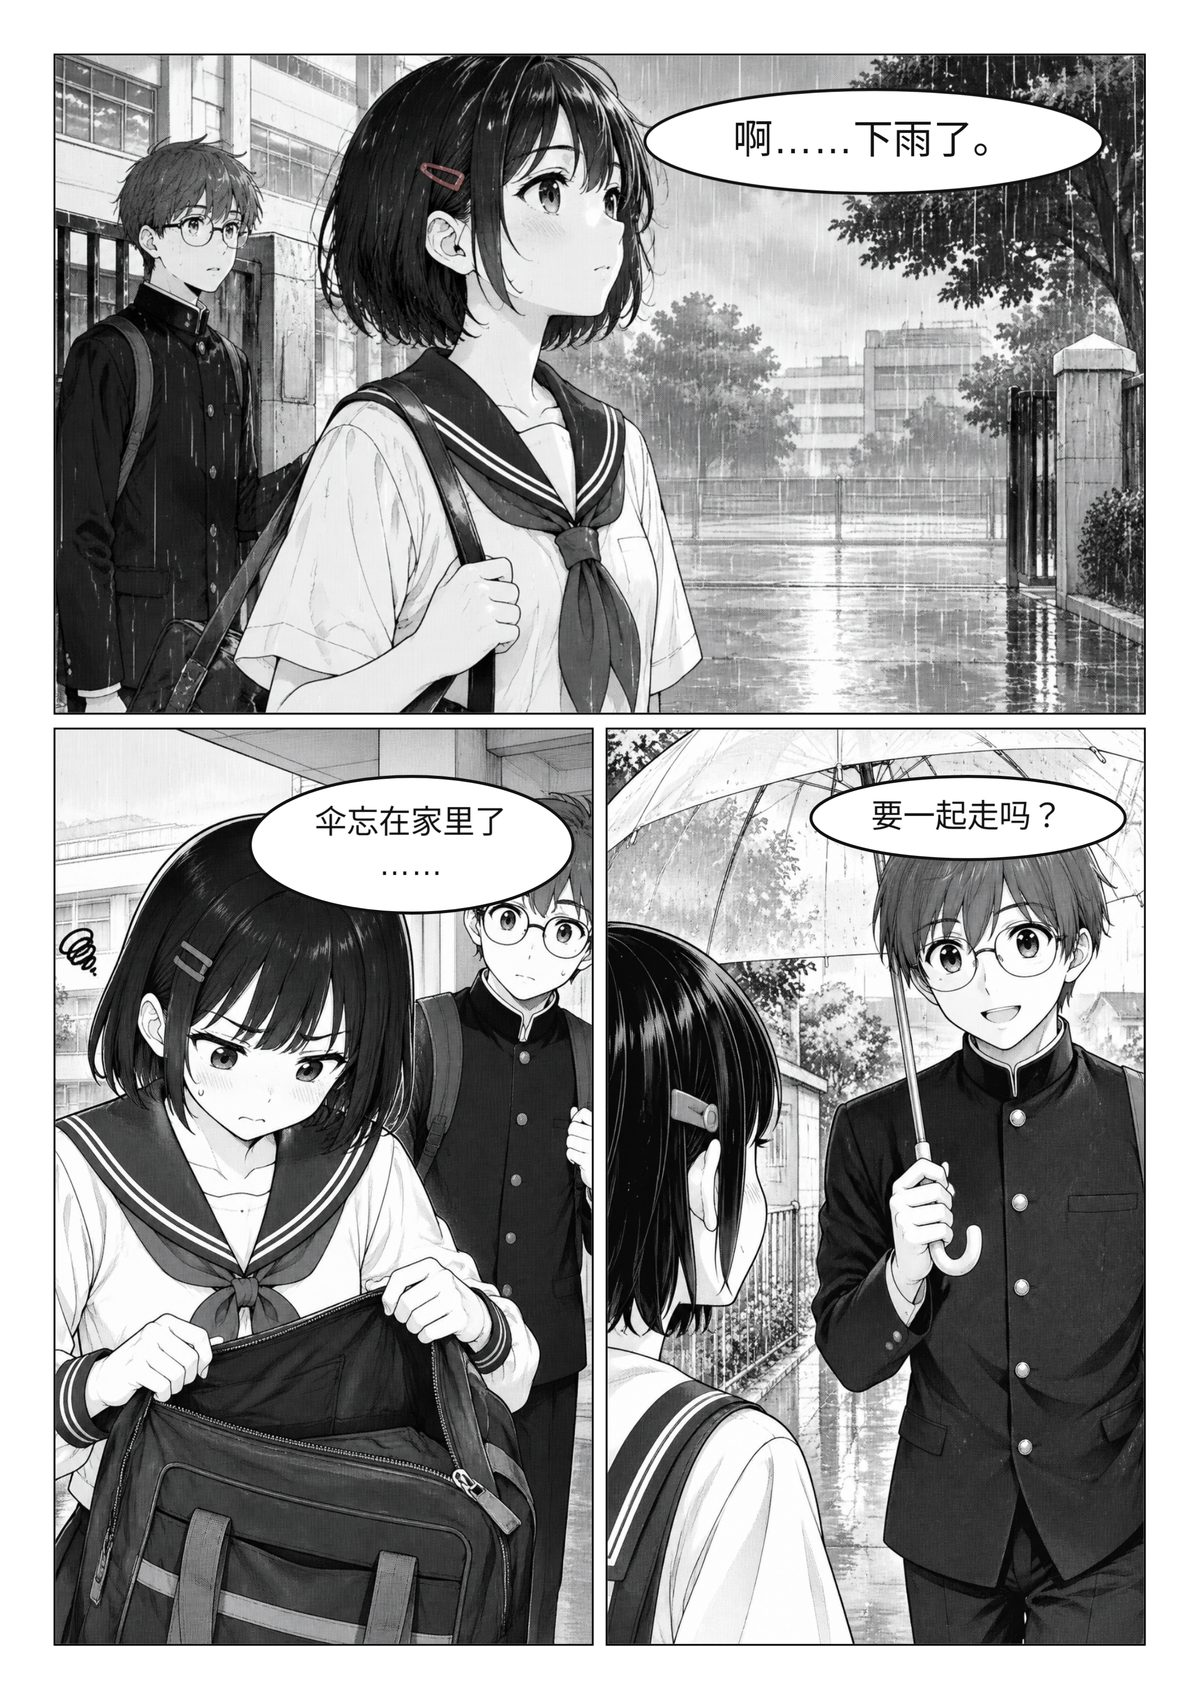
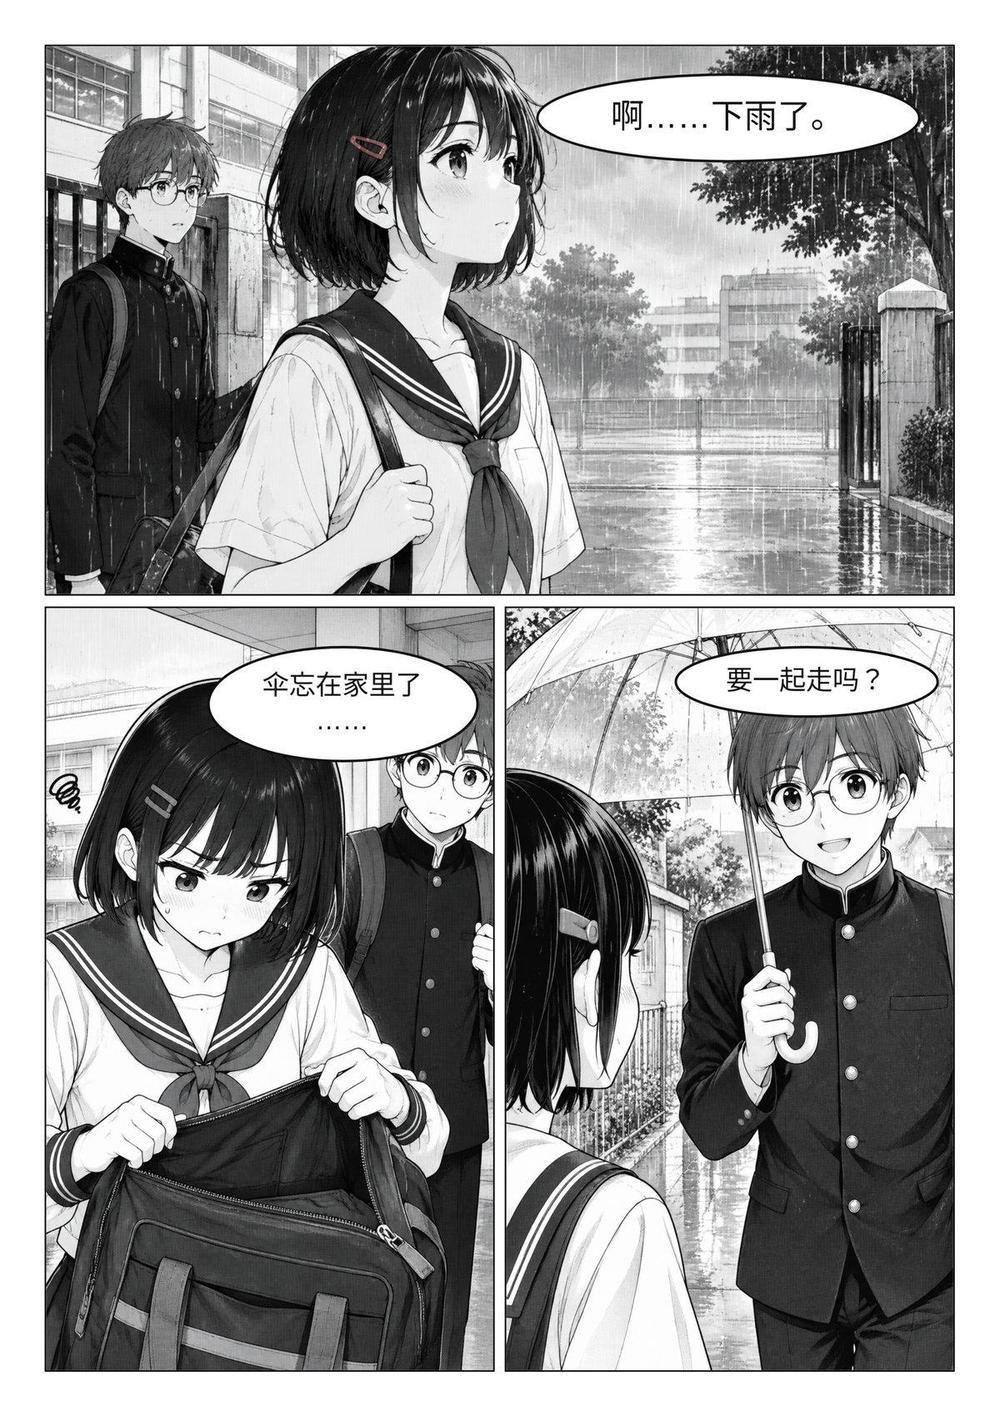
docs: refresh README screenshots and feature table for 1.5

diff --git a/README_EN.md b/README_EN.md
@@ -19,8 +19,7 @@ Manga-NAI-GPT is built on [Manga Editor Desu](https://github.com/new-sankaku/man
 
 ## Features
 
-**New in 1.5:** Edit an area (remove / replace / free edit), character library, non-destructive AI layers, automatic balloons, paste-a-script → page, Ctrl+K command palette + thumbnail history, PSD I/O, `MNAI_PORT`. See [CHANGELOG](CHANGELOG.md).
-
+Current version **1.5**: six tasks on the home screen, plus a character library, automatic speech balloons, a Ctrl+K command palette, a history panel with thumbnails, and PSD import/export. See [CHANGELOG](CHANGELOG.md).
 
 | Task | What it does | Needs |
 |---|---|---|
@@ -28,15 +27,30 @@ Manga-NAI-GPT is built on [Manga Editor Desu](https://github.com/new-sankaku/man
 | **改字幕 Captions** | Text is detected on import → edit the lines → old text erased, new text typeset to the bubble (CJK line-breaking, keep SFX option) | Local (free) |
 | **改一块 Edit an area** | Paint an area → "remove" (local, free) / "replace with…" / "free edit" (3 candidates) → becomes an editable, revertible layer; seams and tone are matched | Local LaMa or image service |
 | **分层 Layers** | Smart click-select (3 candidates) or split by panels in one click | Local (free) |
-| **画一页 Draw a page** | Choose panel count or reuse this page's grid → one line of scene + dialogue per panel → generate | Image service |
+| **画一页 Draw a page** | Paste a script (split into panels and dialogue automatically) or fill each panel → generate; balloons avoid faces and follow right-to-left reading order | Image service |
 | **AI 生图 Generate** | NovelAI text-to-image / image-to-image | NovelAI token |
 | **专业模式 Pro mode** | All original tools: panels, bubbles, screentones, brushes, multi-page, simulator, export | — |
+
+| Always available | What it does |
+|---|---|
+| **Character library** (⋯ menu) | Store references per character; recognises who is on the page; edits attach that character's reference |
+| **Ctrl+K** | Type a few characters to find and run any command |
+| **History panel** | Every step has a name, time and thumbnail; click to jump back |
+| **PSD import / export** | File menu; text stays editable, AI layers keep their masks |
 
 | Character swap (before / after) | Finished page |
 |---|---|
 | ![swap](docs/images/swap-before-after.jpg) | ![page](docs/images/comic-page.jpg) |
 | **Captions**: OCR cached per page | **Layers**: split by panels |
 | ![captions](docs/images/caption.jpg) | ![layers](docs/images/panel-split.jpg) |
+| **Edit an area**: paint → replace with… → 3 candidates | **Script → page**: panels and balloons from a script |
+| ![edit an area](docs/images/gaiyikuai.jpg) | ![script to page](docs/images/script-page.jpg) |
+| **Character library**: recognises who is on the page | **History**: named steps with thumbnails |
+| ![character library](docs/images/character-library.jpg) | ![history](docs/images/history.jpg) |
+
+**Automatic balloons** (left: old fixed top-right; right: avoid faces, reading order)
+
+![balloons](docs/images/balloons.jpg)
 
 ## Install (3 steps)
 
@@ -78,7 +92,9 @@ The browser opens `http://127.0.0.1:8000/index.html`. The launcher window is the
 - **Character swap is unstable in complex multi-person panels** — it may touch the other person or distort proportions; always check the before/after compare.
 - **Panel detection needs white gutters** — borderless, full-bleed or black-gutter pages need manual boxes.
 - **Local AI is CPU-only** — first character detection takes 20–60 s; slow on machines with < 8 GB RAM.
-- **Windows is not yet verified on a real machine** (static review + `windows-latest` CI only); see [docs/dev/WINDOWS_READINESS.md](docs/dev/WINDOWS_READINESS.md).
+- **Windows is not yet verified on a real machine.** Every commit runs `一键启动.bat` for real on `windows-latest` CI (from a path with spaces and Chinese characters, checking the page and the local API), but nobody has walked through it on a physical PC yet. See [docs/dev/WINDOWS_READINESS.md](docs/dev/WINDOWS_READINESS.md).
+- Real-GPT quality of "replace with… / free edit" and the character library's automatic reference has not been re-verified on 1.5.
+- Colour pages export to PSD at about 16–18 MB (lossless); black-and-white pages about 6 MB.
 - OCR targets Japanese manga; handwriting and stylised lettering are weaker.
 
 ## FAQ

diff --git a/README.md b/README.md
@@ -19,8 +19,7 @@ Manga-NAI-GPT 是基于 [Manga Editor Desu](https://github.com/new-sankaku/manga
 
 ## 功能
 
-**1.5 新增：** 改一块（去掉 / 换成 / 自由修改）、角色库、非破坏 AI 图层、自动对白气泡、粘贴剧本生成整页、Ctrl+K 命令面板与带缩略图的历史、PSD 导入导出、`MNAI_PORT` 换端口。详见 [CHANGELOG](CHANGELOG.md)。
-
+当前版本 **1.5**：首页 6 个任务，外加角色库、自动对白气泡、Ctrl+K 命令面板和带缩略图的历史、PSD 导入导出。详见 [CHANGELOG](CHANGELOG.md)。
 
 | 任务 | 做什么 | 需要 |
 |---|---|---|
@@ -28,15 +27,30 @@ Manga-NAI-GPT 是基于 [Manga Editor Desu](https://github.com/new-sankaku/manga
 | **改字幕** | 导入时自动识别本页文字 → 直接改台词 → 原字擦掉、新字按气泡排版（中文避头尾，可保留拟声词） | 本机（免费） |
 | **改一块** | 涂出一块 → 「去掉杂物」（本机，免费）/「换成…」/「自由修改」（3 张候选）→ 变成可再改、可还原的图层；接缝和色调自动对齐 | 本机 LaMa 或图像服务 |
 | **分层** | 智能点选人物（3 个候选）或按格子一键拆成图层 | 本机（免费） |
-| **画一页漫画** | 选格子数或照本页格子 → 每格写画面和对白 → 一键生成整页 | 图像服务 |
+| **画一页漫画** | 粘贴剧本自动拆成格子和对白（或逐格写）→ 一键生成整页；对白气泡自动避脸、按从右到左的阅读顺序摆放 | 图像服务 |
 | **AI 生图** | NovelAI 文生图 / 图生图 | NovelAI Token |
 | **专业模式** | 原版全部工具：分镜、气泡、网点、笔刷、多页、模拟器、导出 | — |
+
+| 随时可用 | 做什么 |
+|---|---|
+| **角色库**（⋯ 菜单） | 给角色存参考图，本页自动认出是谁；改图时自动带上该角色的参考 |
+| **Ctrl+K 找功能** | 输入几个字就能找到并执行任何功能 |
+| **历史面板** | 每一步都有中文名、时间和缩略图，点一下回到那一步 |
+| **PSD 导入 / 导出** | 文件菜单；文字是可编辑文字层，AI 图层带蒙版 |
 
 | 换角色（左原图 / 右结果） | 一页完成稿 |
 |---|---|
 | ![换角色前后](docs/images/swap-before-after.jpg) | ![完成稿](docs/images/comic-page.jpg) |
 | **改字幕**：每页识别结果自动缓存 | **分层**：按格子拆成图层 |
 | ![改字幕](docs/images/caption.jpg) | ![按格子拆成图层](docs/images/panel-split.jpg) |
+| **改一块**：涂一块 → 换成… → 3 张候选 | **剧本成页**：粘贴剧本 → 格子、对白气泡 |
+| ![改一块](docs/images/gaiyikuai.jpg) | ![剧本成页](docs/images/script-page.jpg) |
+| **角色库**：本页自动认人 | **历史面板**：每步有名字和缩略图 |
+| ![角色库](docs/images/character-library.jpg) | ![历史面板](docs/images/history.jpg) |
+
+**自动对白气泡**（左：旧的固定右上角；右：避脸、按阅读顺序）
+
+![自动对白气泡](docs/images/balloons.jpg)
 
 ## 安装（3 步）
 
@@ -80,7 +94,9 @@ Manga-NAI-GPT 是基于 [Manga Editor Desu](https://github.com/new-sankaku/manga
 - **换角色在复杂多人画格里不稳定**：偶尔会改到同格另一个人或比例不自然，请先看「对比原图」再应用。
 - **自动找格子需要白色格间留白**：无边框、满版出血、黑底分格要手动框选。
 - **本机 AI 只用 CPU**：首次人物识别 20–60 秒，内存 < 8 GB 的电脑会偏慢。
-- **Windows 尚未在真实电脑上完整验证**（只经过代码审查和 CI 的 `windows-latest` 离线测试），见 [docs/dev/WINDOWS_READINESS.md](docs/dev/WINDOWS_READINESS.md)。
+- **Windows 尚未在真实电脑上完整验证**：每次提交 CI 都会在 `windows-latest` 上真正运行「一键启动.bat」（从带空格和中文的路径启动，检查页面和本机接口），但还没在真人电脑上逐项试过。见 [docs/dev/WINDOWS_READINESS.md](docs/dev/WINDOWS_READINESS.md)。
+- 「改一块」的「换成… / 自由修改」和角色库自动带参考，用真实 GPT 的效果还没有在 1.5 上重新验证。
+- 彩色页导出 PSD 约 16–18 MB（无损）；黑白页约 6 MB。
 - 文字识别以日文漫画为主；手写体、艺术字识别率较低。
 
 ## 常见问题

diff --git a/docs/dev/WINDOWS_READINESS.md b/docs/dev/WINDOWS_READINESS.md
@@ -1,5 +1,7 @@
 # Windows 就绪情况（静态审查，**尚未在真实 Windows 上验证**）
 
+> 1.5 更新：CI 的 `windows-start` 任务现在会在 `windows-latest` 上真正运行 `一键启动.bat`（路径含空格和中文、`-Ci` 非交互模式），等 `MNAI_READY` 后检查 `index.html`、GPT 本机接口的同源防护和 `MNAI_PORT` 换端口；`安装AI功能.bat -DryRun` 也会跑。仍未在真人 Windows 电脑上逐项试过。
+
 2026-10-11，没有可用的 Windows 机器；以下结论来自代码审查 + GitHub Actions `windows-latest` 的离线检查（`.github/workflows/windows-checks.yml`）。
 
 | 项目 | 结论 | 处理 |
